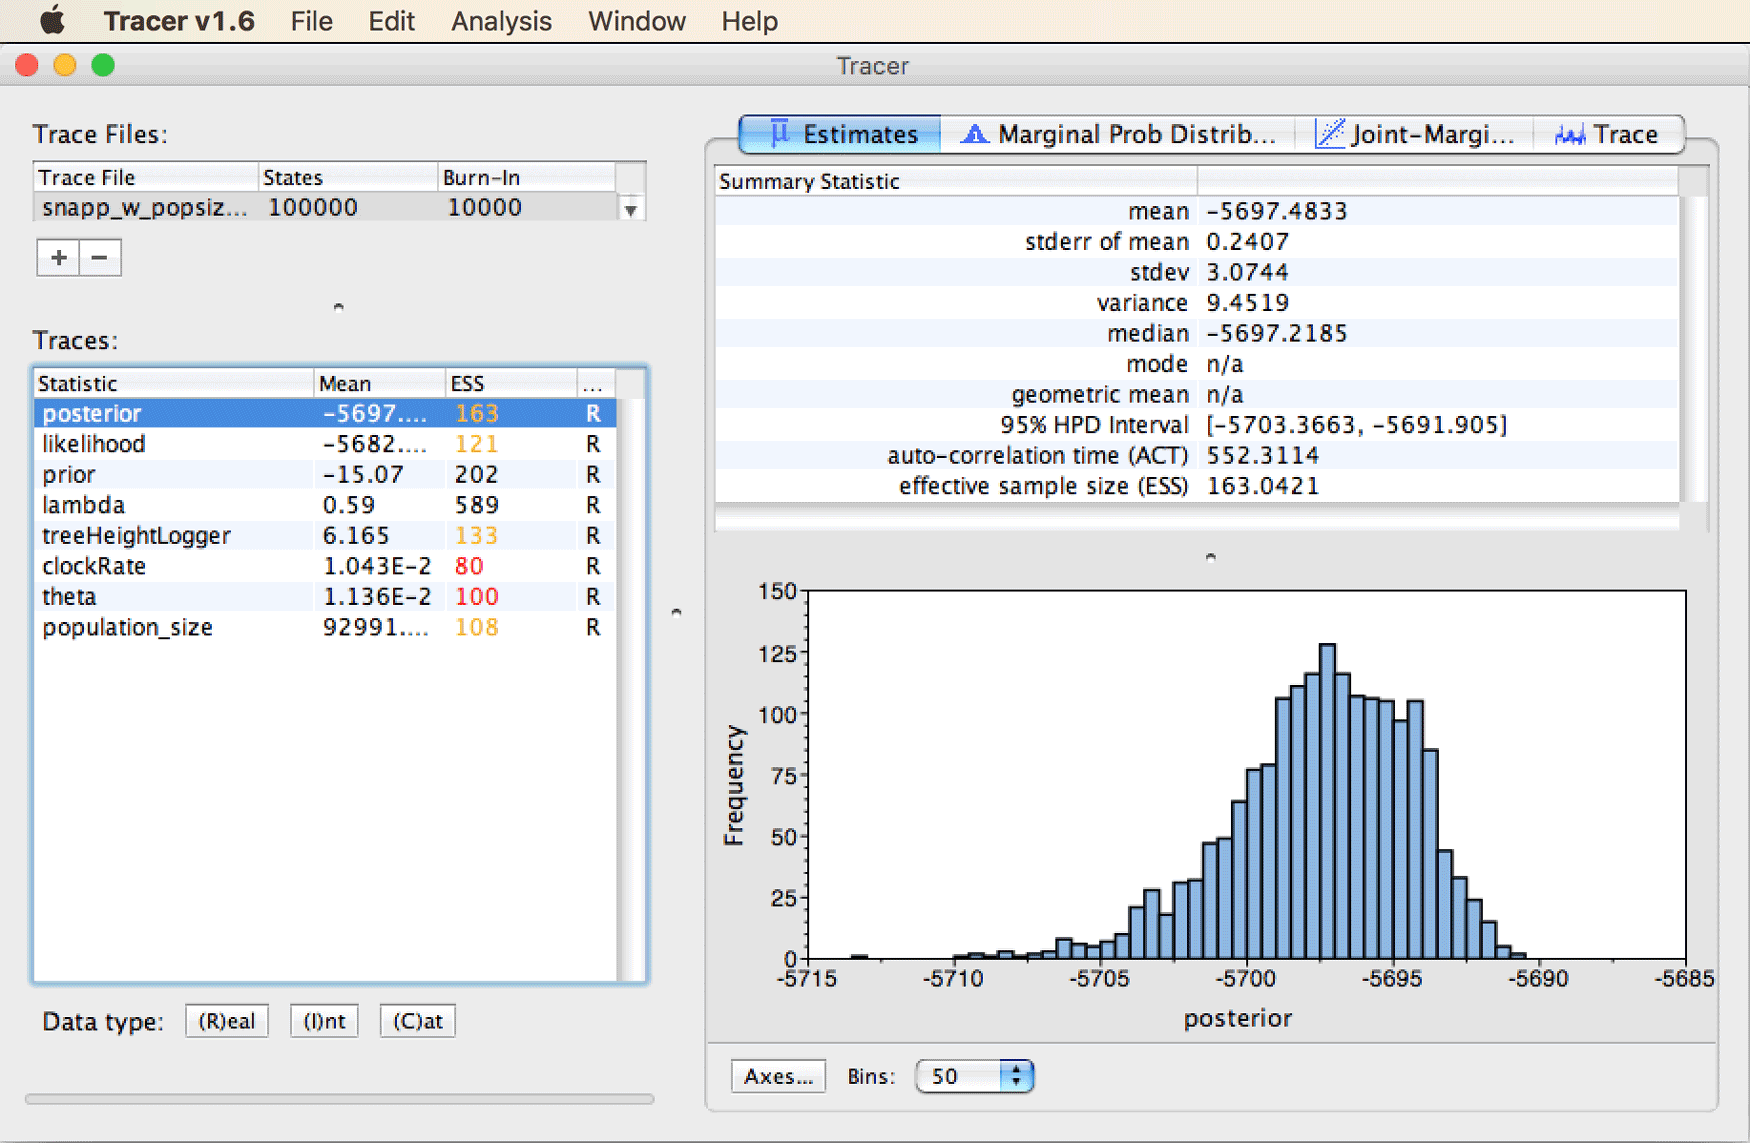
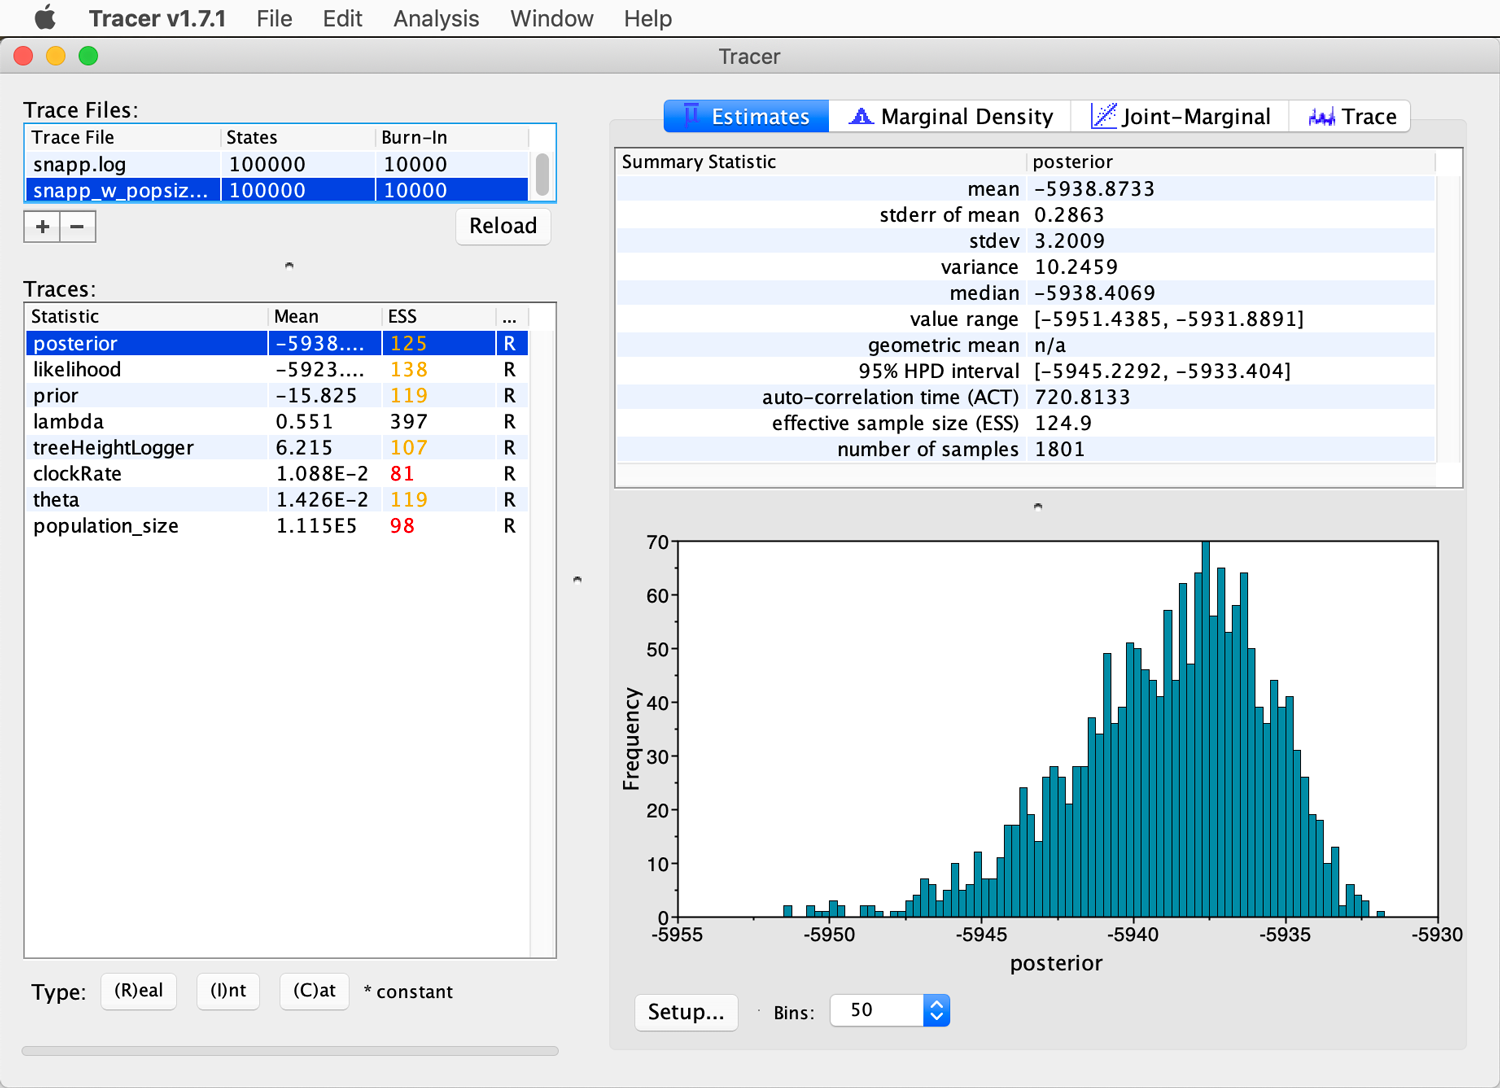
progress on divergence time estimation with snp data

Changed region(s): [[0.0, 0.0, 1.0, 1.0], [0.3987, 0.9062, 0.644, 0.9688]]

diff --git a/divergence_time_estimation_with_snp_data/README.md b/divergence_time_estimation_with_snp_data/README.md
@@ -315,7 +315,7 @@ While the SNAPPER analysis (and probably also still the SNAPP analysis) are runn
 <a name="compare"></a>
 ## Comparing results obtained with SNAPP and SNAPPER
 
-* Once the SNAPP analysis has completed, download the file `snapp.log` to your local computer with `scp` and open it in Tracer. The Tracer window should then display run statistics similar to those shown in the next screenshot.<p align="center"><img src="img/tracer1.png" alt="Tracer" width="700"></p>You'll see that some low ESS values indicate that the MCMC chain has not yet reached stationarity and that the analysis should ideally have been performed with more MCMC iterations. For our interpretation here, however, we'll assume that the degree of stationarity is sufficient. What you also should notice is that the list of parameters on the left-hand side of the window is now much shorter than it usually is with results of BEAST2 analyses. In fact, only three parameters are shown: The speciation rate ("lambda"), the age of the root of the species tree ("treeHeightLogger"), and the substitution rate ("clockRate"). Note that the substitution rate is not comparable to a genome-wide rate due to ascertainment bias in the SNP dataset, even though SNAPP by default applies an ascertainment-bias correction (see [Bryant et al. 2012](https://academic.oup.com/mbe/article/29/8/1917/1045283) for details). However, one model parameter is not included in the log output yet, namely the population size. Recall that by using script `snapp_prep.rb` to generate the XML file, we implemented a model in which the population sizes of all branches are set to be identical to each other. Thus, if the population sizes had been included in the log file, this file would contain a large number of columns with identical information. To avoid this, the output of the population sizes to the log file has been disabled by `snapp_prep.rb`. However, the population size estimates are still available because they were instead written to the tree file `snapp.trees`, and we can now add them to the log file `snapp.log` using the Ruby script `add_theta_to_log.rb`. Thus, download the script [`add_theta_to_log.rb`](https://raw.githubusercontent.com/mmatschiner/snapp_prep/master/add_theta_to_log.rb) from the github repository for `snapp_prep.rb`, either by clicking the link or with the following command:
+* Once the SNAPP analysis has completed, download the file `snapp.log` to your local computer with `scp` and open it in Tracer. The Tracer window should then display run statistics similar to those shown in the next screenshot.<p align="center"><img src="img/tracer1.png" alt="Tracer" width="700"></p>You'll see that some low ESS values indicate that the MCMC chain has not yet reached stationarity and that the analysis should ideally have been performed with more MCMC iterations. For our interpretation here, however, we'll assume that the degree of stationarity is sufficient. What you also should notice is that the list of parameters on the left-hand side of the window is now much shorter than it usually is with results of BEAST2 analyses. In fact, only three parameters are shown: The speciation rate ("lambda"), the age of the root of the species tree ("treeHeightLogger"), and the substitution rate ("clockRate"). Note that the substitution rate is not comparable to a genome-wide rate due to ascertainment bias in the SNP dataset, even though SNAPP by default applies an ascertainment-bias correction (see [Bryant et al. 2012](https://academic.oup.com/mbe/article/29/8/1917/1045283) for details). However, one model parameter is not included in the log output yet, namely the population size. Recall that by using script `snapp_prep.rb` to generate the XML file, we implemented a model in which the population sizes of all branches are set to be identical to each other. Thus, if the population sizes had been included in the log file, this file would contain a large number of columns with identical information. To avoid this, the output of the population sizes to the log file has been disabled by `snapp_prep.rb`. However, the population size estimates are still available because they were instead written to the tree file `snapp.trees`, and we can now add them to the log file `snapp.log` using the Ruby script `add_theta_to_log.rb`. Thus, download the script [`add_theta_to_log.rb`](https://raw.githubusercontent.com/mmatschiner/snapp_prep/master/add_theta_to_log.rb) from the github repository for `snapp_prep.rb`, by executing the following command on Saga:
 
 		wget https://raw.githubusercontent.com/mmatschiner/snapp_prep/master/add_theta_to_log.rb
 		
@@ -327,11 +327,11 @@ While the SNAPPER analysis (and probably also still the SNAPP analysis) are runn
 	
 * We'll here assume (as in other tutorials) that the generation time of cichlids is three years, and we'll name the output file `snapp_w_popsize.log`. Thus use the following command to run script `add_theta_to_log.rb`:
 
-		ruby add_theta_to_log.rb -l snapp.log -t snapp.trees -g 3 -o snapp_w_popsize.log
+		 srun --ntasks=1 --mem-per-cpu=1G --time=00:01:00 --account=nn9458k --pty ruby add_theta_to_log.rb -l snapp.log -t snapp.trees -g 3 -o snapp_w_popsize.log
 
-* Then, open file `snapp_w_popsize.log` again in Tracer. You should see that "theta" and "population_size" have now been added to the list of parameters, as shown in the next screenshot.<p align="center"><img src="img/tracer2.png" alt="Tracer" width="700"></p>
+* Then, download file `snapp_w_popsize.log` to your local computer and open it also in Tracer. You should see that "theta" and "population_size" have now been added to the list of parameters, as shown in the next screenshot.<p align="center"><img src="img/tracer2.png" alt="Tracer" width="700"></p>
 
-* Select both "clockRate" and "theta" from the list of parameters and click the tab for "Joint-Marginal" at the top right. You should then see that both of these parameters are highly correlated, as shown in the next screenshot.<p align="center"><img src="img/tracer3.png" alt="Tracer" width="700"></p>Note that both of these estimates should not be taken as being representative for the whole genome due to ascertainment bias. Because invariant sites are not included in a SNP dataset, this SNP dataset necessarily appears more variable than the whole-genome dataset from which it was derived, and thus the substitution rate of the SNP data appears to be higher than the rate would be if it was averaged over the entire genome. Nevertheless, our simulations in [Stange et al. (2018)](https://academic.oup.com/sysbio/advance-article/doi/10.1093/sysbio/syy006/4827616) have shown that the population-size estimates of SNAPP are actually reliable.
+* Select both "clockRate" and "theta" from the list of parameters, click the tab for "Joint-Marginal" at the top right, and remove the tick at the bottom of the panel next to "Sample only". You should then see that both of these parameters are highly correlated, as shown in the next screenshot.<p align="center"><img src="img/tracer3.png" alt="Tracer" width="700"></p>Note that both of these estimates should not be taken as being representative for the whole genome due to ascertainment bias. Because invariant sites are not included in a SNP dataset, this SNP dataset necessarily appears more variable than the whole-genome dataset from which it was derived, and thus the substitution rate of the SNP data appears to be higher than the rate would be if it was averaged over the entire genome. Nevertheless, our simulations in [Stange et al. (2018)](https://academic.oup.com/sysbio/advance-article/doi/10.1093/sysbio/syy006/4827616) have shown that the population-size estimates of SNAPP are actually reliable.
 
 * Select "population_size" from the list of parameters and click on the "Estimates" tab to see summary information and a histogram for the population-size estimate, as shown in the next screenshot.<p align="center"><img src="img/tracer4.png" alt="Tracer" width="700"></p>
 	
